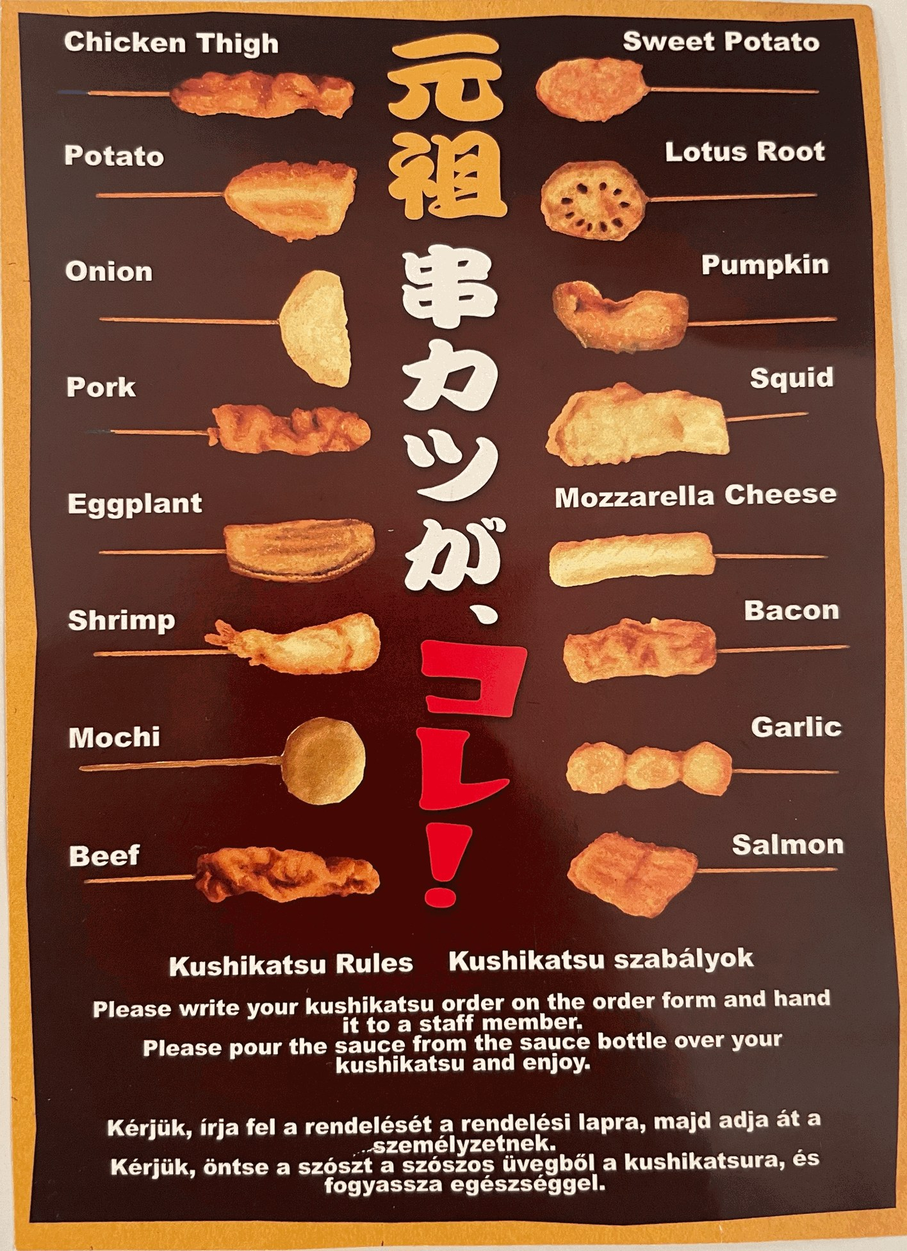
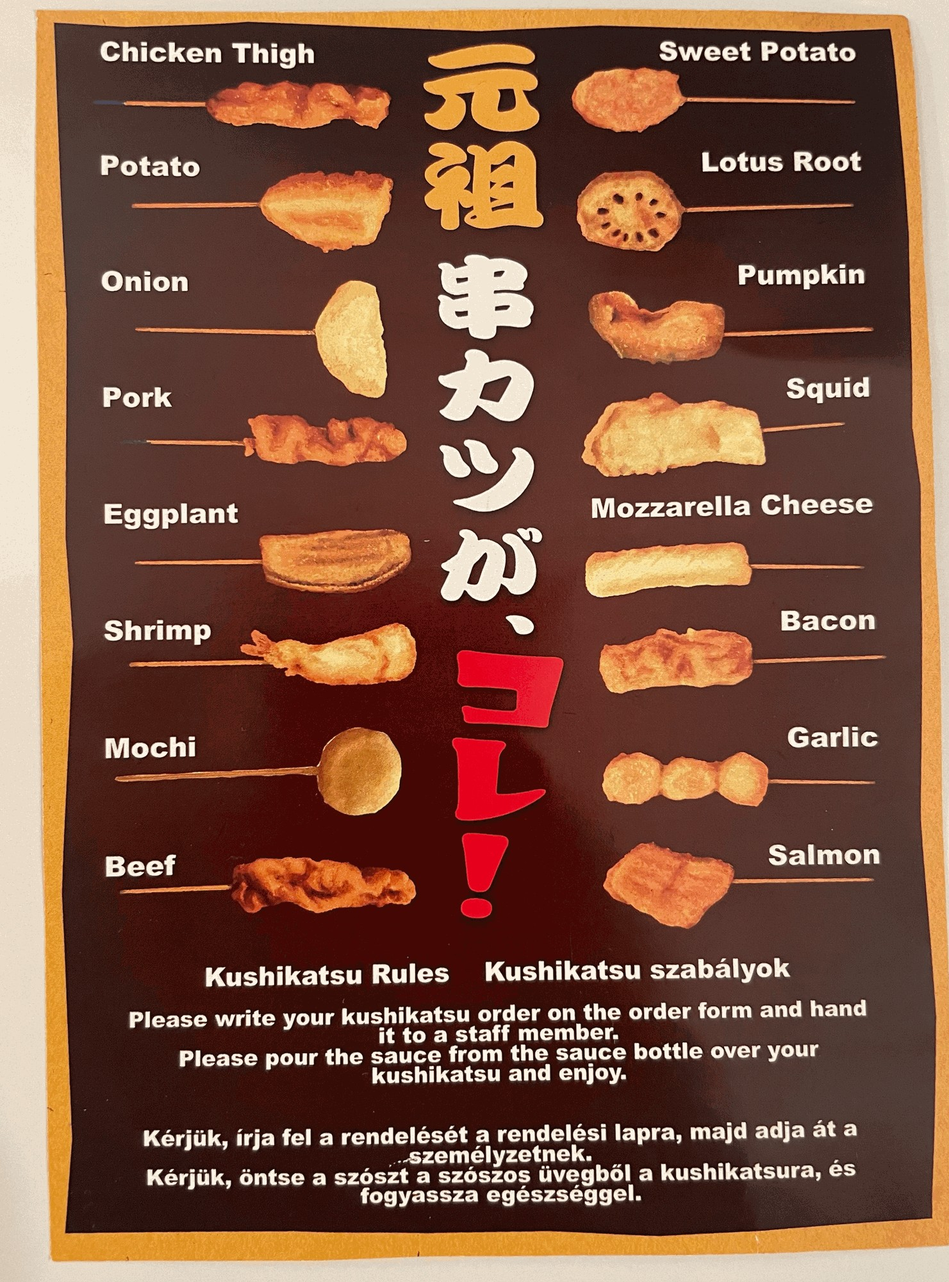
Show the kushikatsu order card photo uncropped
Use the original, unedited photo and switch the tile to
background-size: contain so the whole card is visible instead of
being cropped to fill the 4:5 frame.

diff --git a/public/ebisu-shoten-budapest/style.css b/public/ebisu-shoten-budapest/style.css
@@ -347,7 +347,7 @@ section{ position: relative; padding: clamp(4rem, 8vw, 7rem) clamp(1.25rem, 6vw,
 .duo-hamachi{ background: url('assets/dishes/hamachi-sashimi.jpg') center/cover no-repeat; }
 .duo-tonpeiyaki{ background: url('assets/dishes/tonpeiyaki.jpg') center/cover no-repeat; }
 .photo-3{ background: radial-gradient(circle at 40% 60%, #5c4326, #201810 75%); }
-.photo-4{ background: url('assets/dishes/kushikatsu-order-card.jpg') center/cover no-repeat; }
+.photo-4{ background: #1c130e url('assets/dishes/kushikatsu-order-card.jpg') center/contain no-repeat; }
 .photo-5{ background: radial-gradient(circle at 55% 35%, #3c342a, #16120e 75%); }
 
 /* ---------------- Split duo ---------------- */
